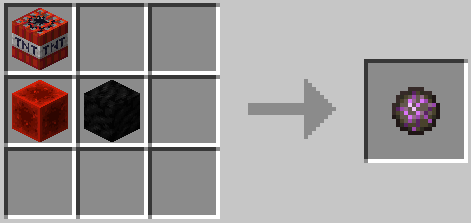
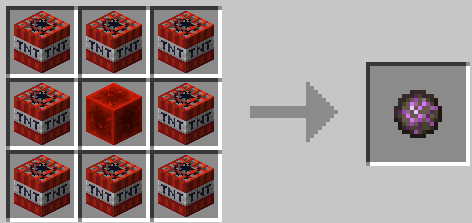
Nuke harder to craft

diff --git a/README.md b/README.md
@@ -41,7 +41,7 @@ Custom Recipes:
 <img src="githubImages/cobweb.png" width="200"> <img src="githubImages/Spawner.png" width="200"> <img src="githubImages/Elytra.png" width="200"> <img src="githubImages/EndCrystal.png" width="200">
 
 <img src="githubImages/TNT.png" width="200"> <img src="githubImages/Totem.png" width="200"> <img src="githubImages/LavaBucket.png" width="200"> <img src="githubImages/Fireball.png" width="200"> <img src="githubImages/nuke.png" width="200"> <br>
-`You can use any type of log for the lava bucket`<br>`Nuke may have to be nurfed `
+`You can use any type of log for the lava bucket`
 
 
 <br>
